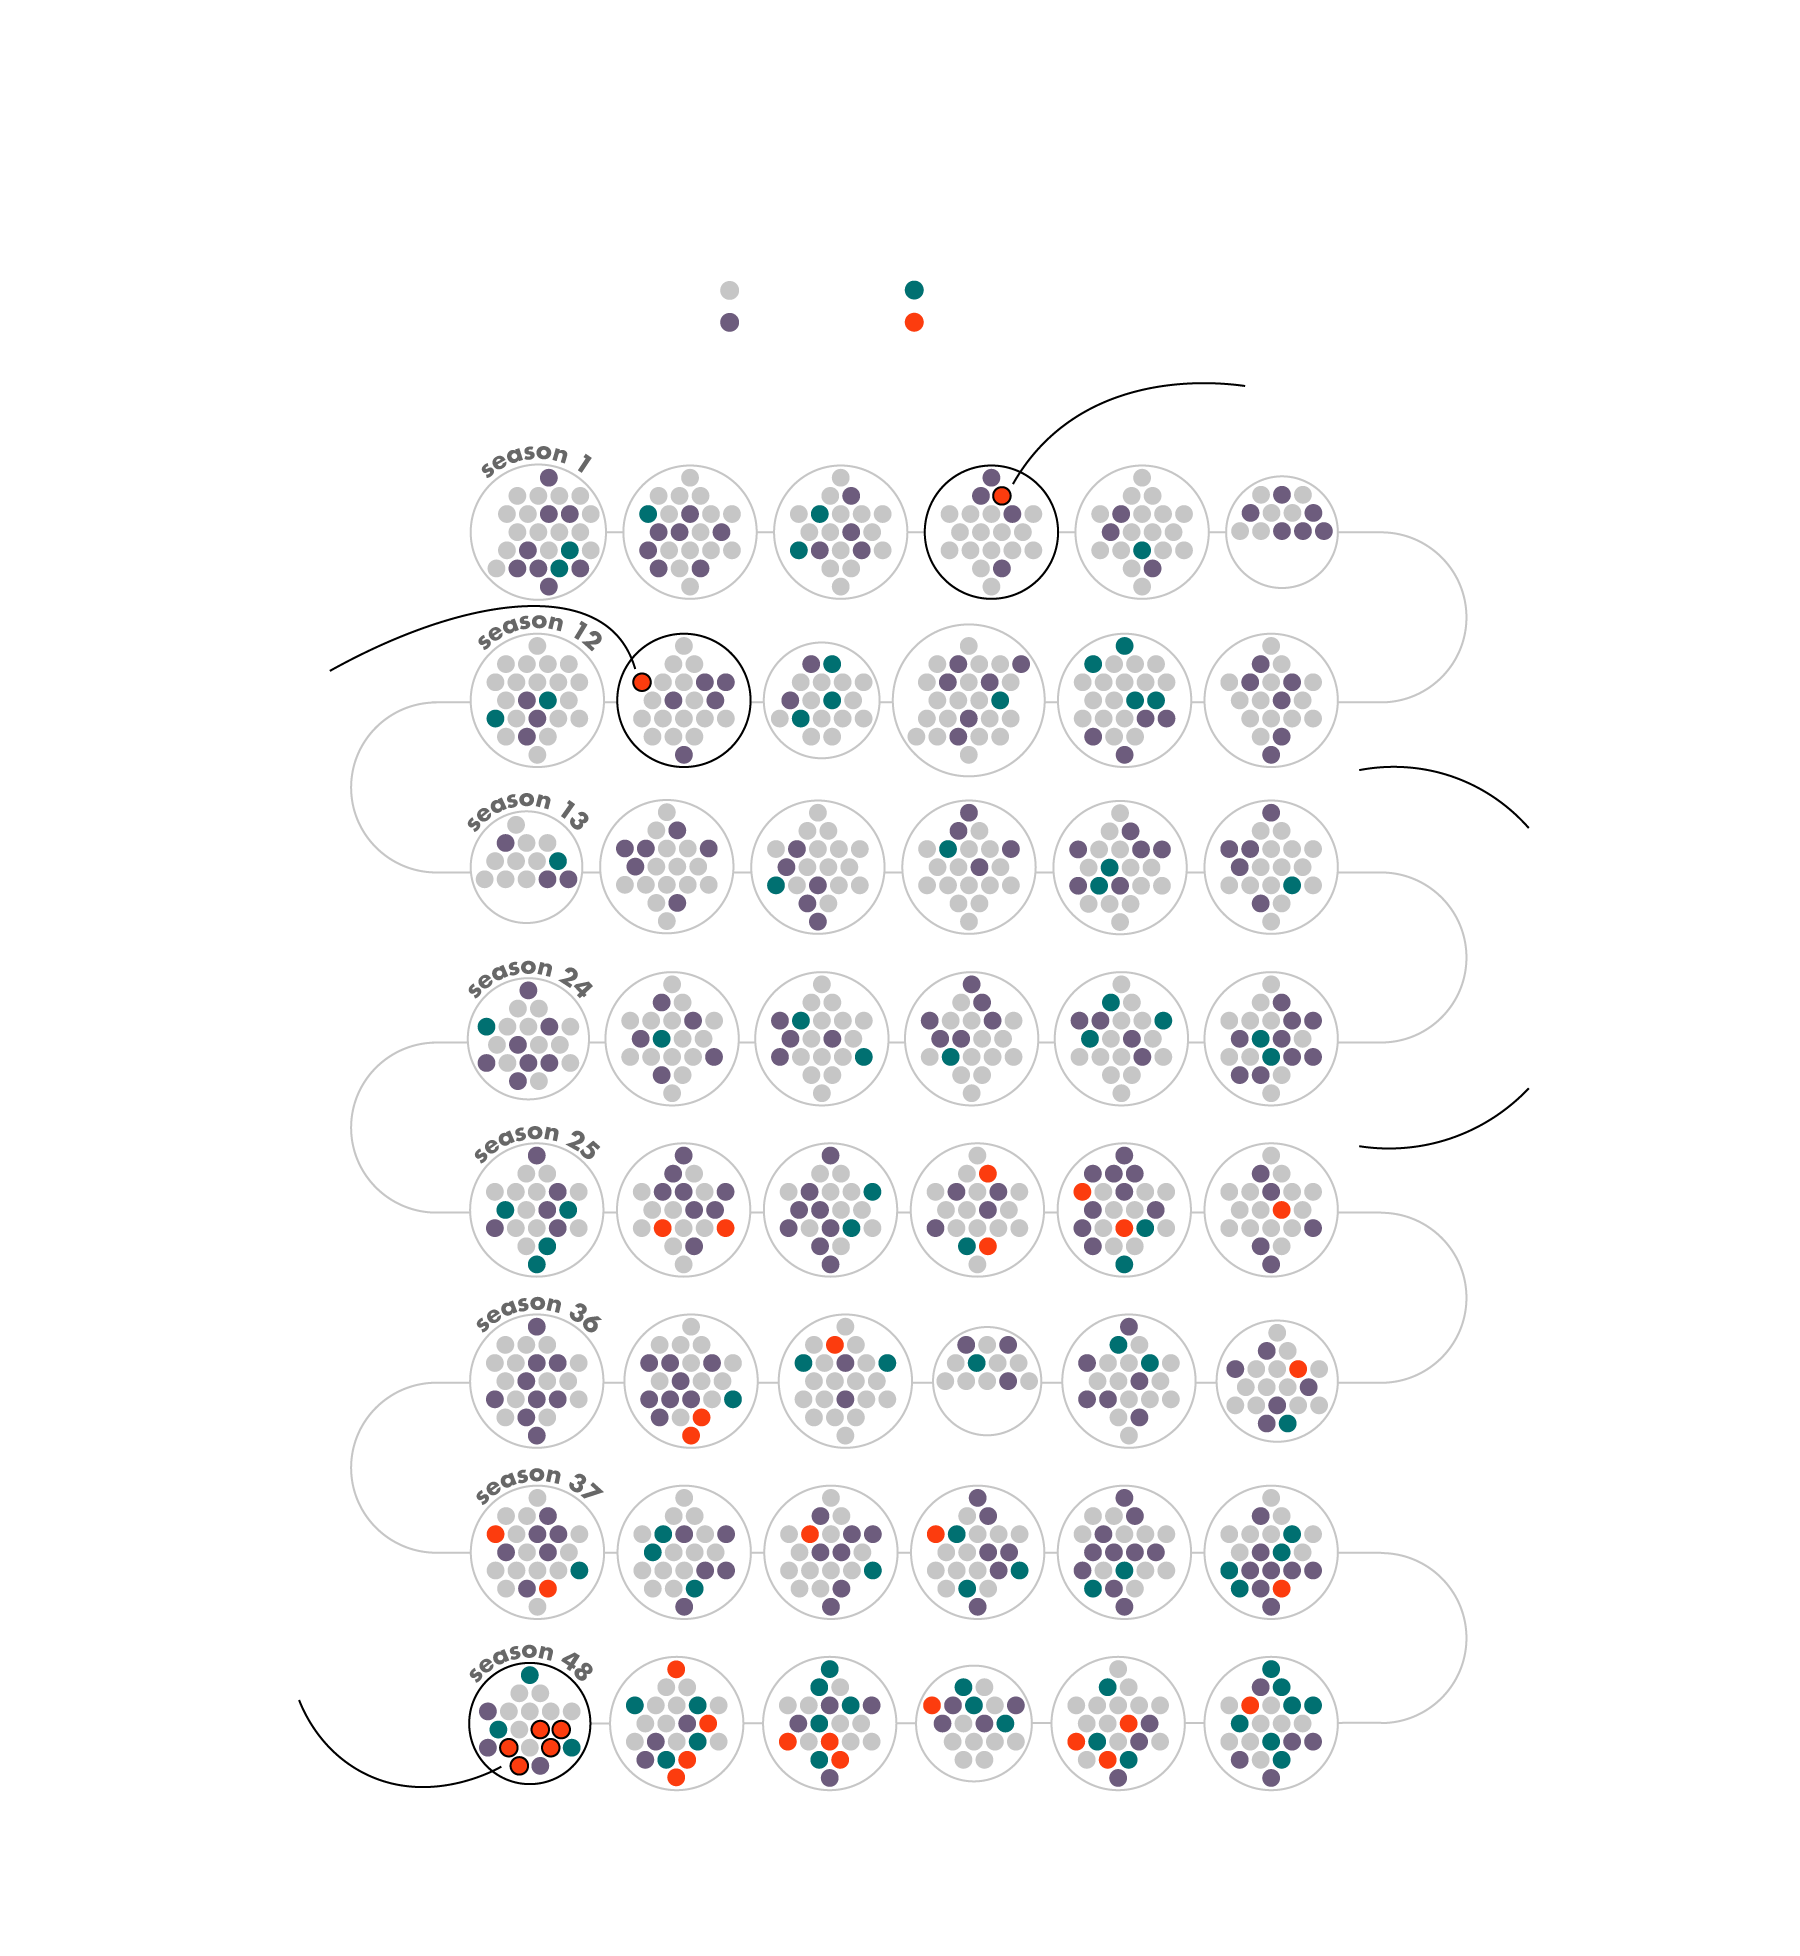
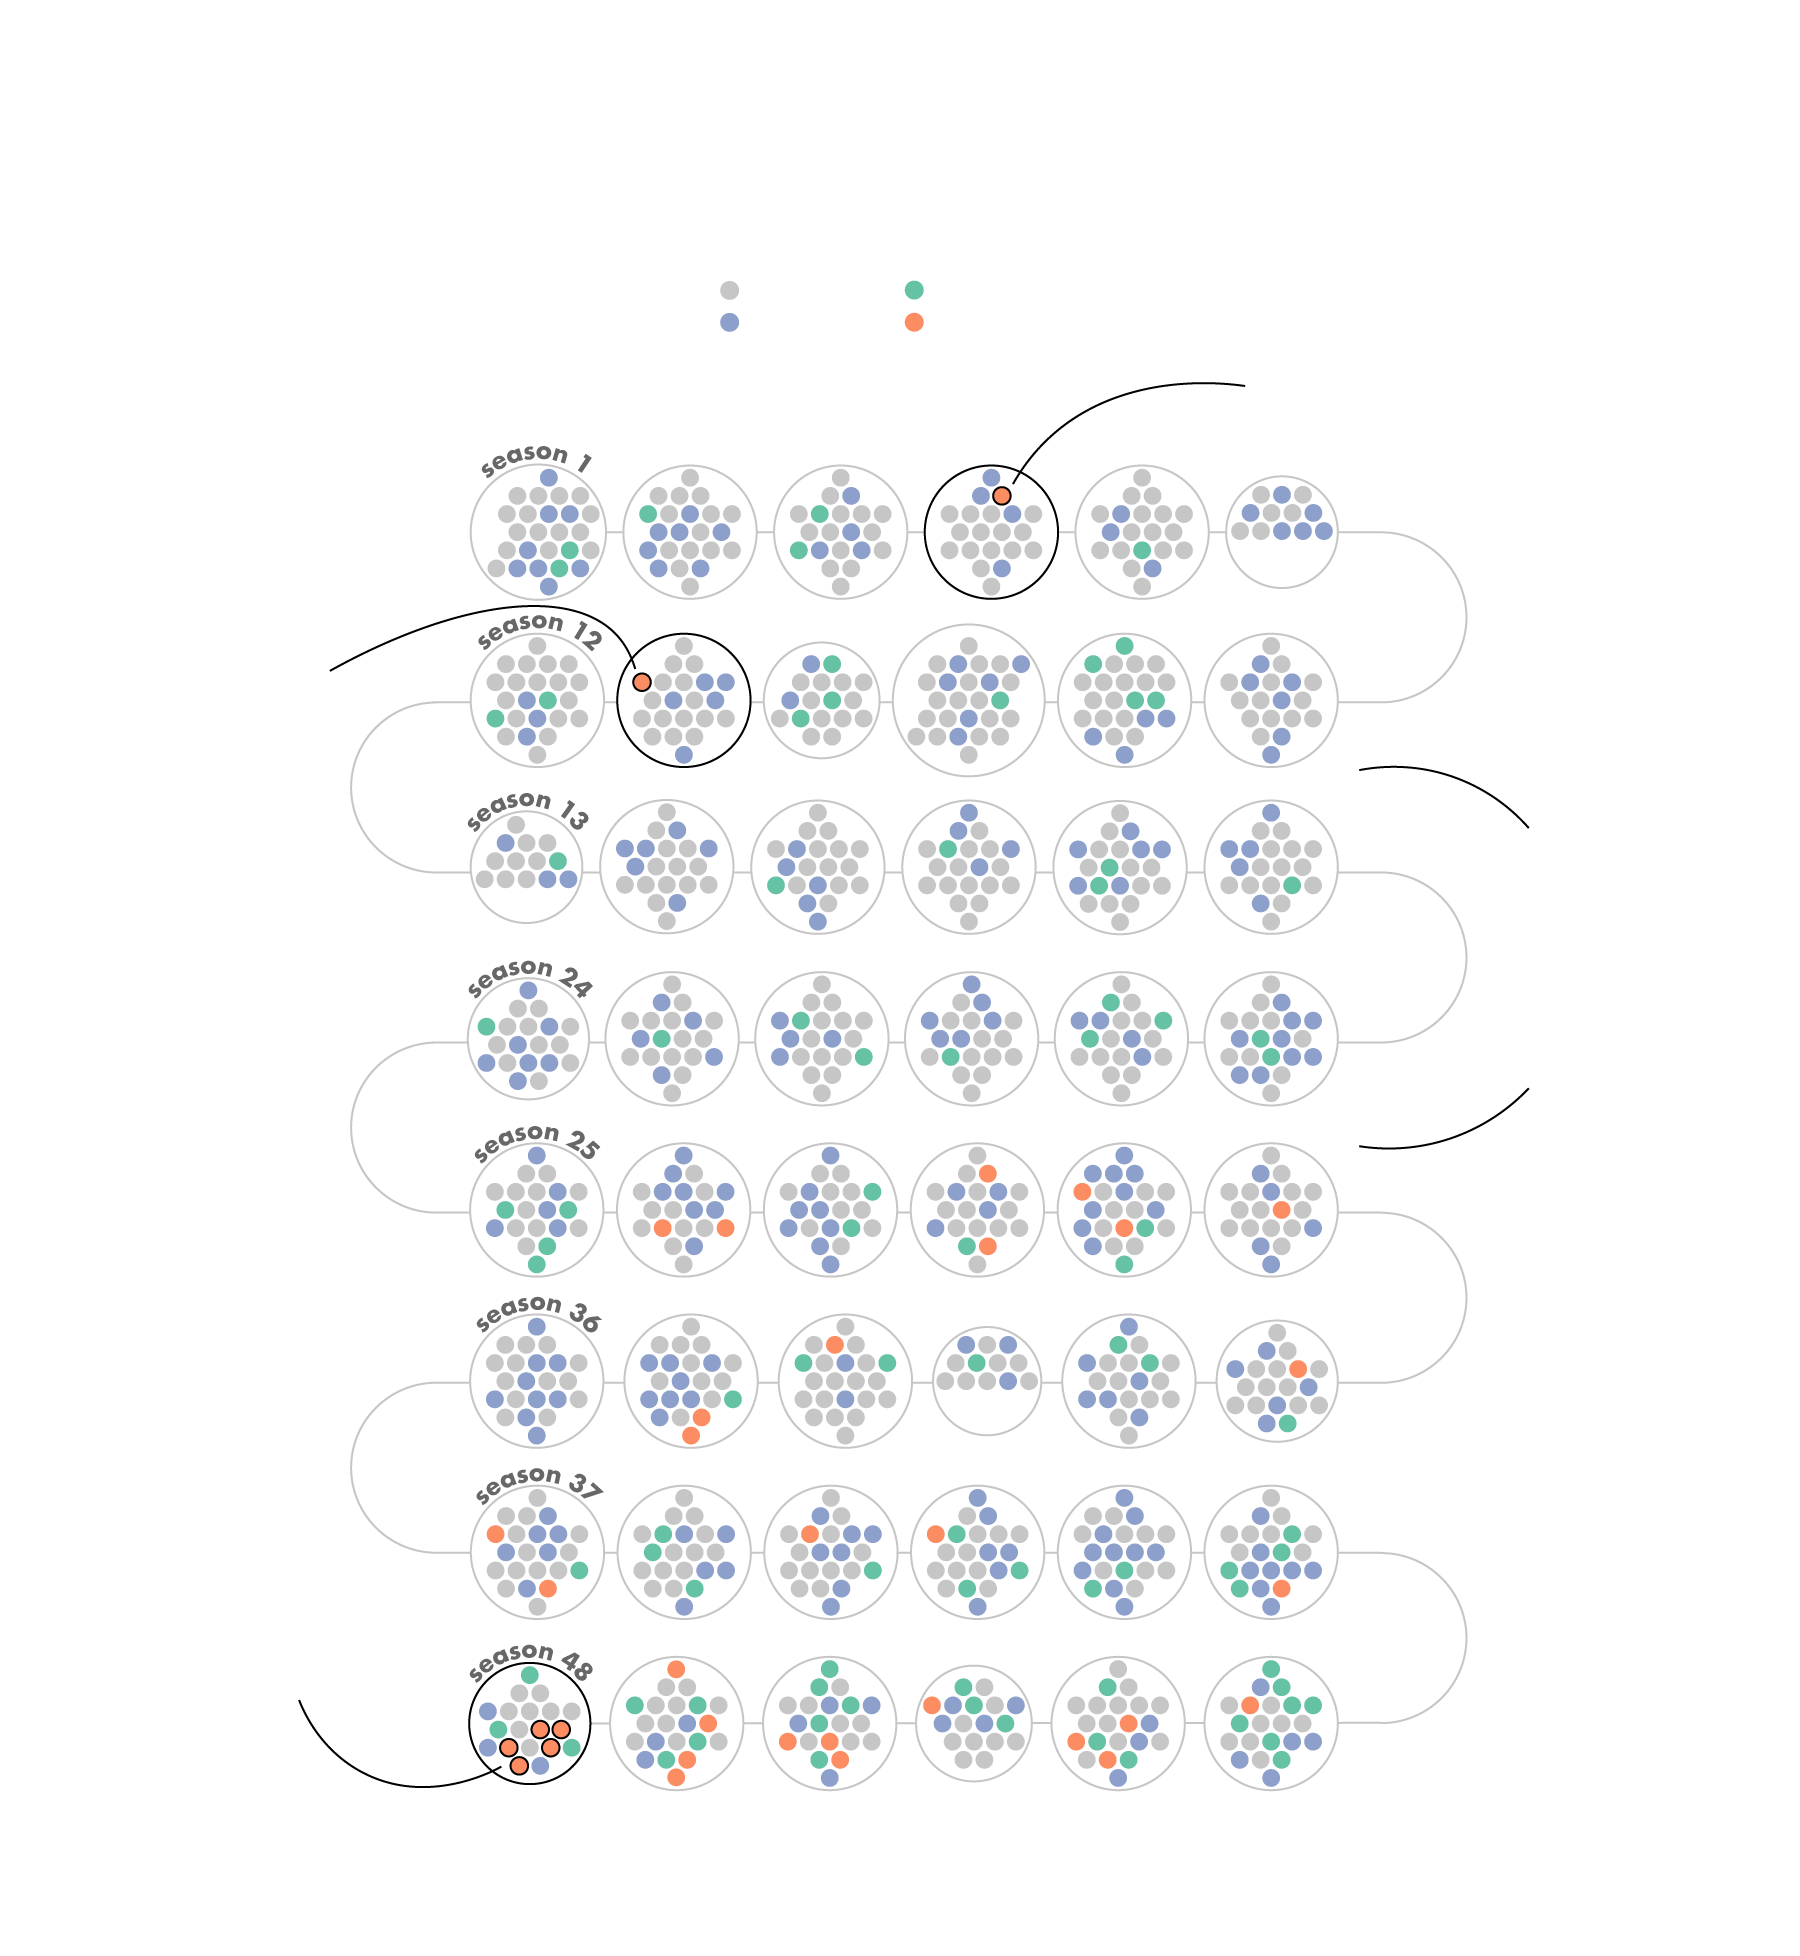
updating SNL colors to be colorblind friendly

diff --git a/snl-viz.html b/snl-viz.html
@@ -1,6 +1,3 @@
-
-<!-- Generated by ai2html v0.115.5 - 2023-05-31 18:27 -->
-<!-- ai file: snl-hosts.ai -->
 <meta name="viewport" content="width=device-width,initial-scale=1.0"> 
 
 <style media="screen,print">
@@ -30,7 +27,6 @@
 		overflow:hidden;
 	}
 	#g-snl-hosts-mobile_420px p {
-		font-family: 'Futura';
 		font-weight:500;
 		line-height:11px;
 		height:auto;
@@ -45,6 +41,7 @@
 		mix-blend-mode:normal;
 		font-style:normal;
 		position:static;
+		font-family: 'Futura';
 	}
 	#g-snl-hosts-mobile_420px .g-pstyle0 {
 		font-weight:700;
@@ -52,6 +49,8 @@
 		font-size:32px;
 		text-align:center;
 		color:rgb(0,0,0);
+		font-family: 'Futura';
+
 	}
 	#g-snl-hosts-mobile_420px .g-pstyle1 {
 		line-height:12px;
@@ -59,8 +58,7 @@
 		color:rgb(0,0,0);
 	}
 	#g-snl-hosts-mobile_420px .g-pstyle2 {
-		line-height:10px;
-		height:10px;
+		height:11px;
 		font-size:9px;
 		color:rgb(0,0,0);
 	}
@@ -84,7 +82,6 @@
 		overflow:hidden;
 	}
 	#g-snl-hosts-desktop_720px p {
-		font-family: 'Futura';
 		font-weight:500;
 		line-height:15px;
 		height:auto;
@@ -99,6 +96,8 @@
 		mix-blend-mode:normal;
 		font-style:normal;
 		position:static;
+		font-family: 'Futura';
+
 	}
 	#g-snl-hosts-desktop_720px .g-pstyle0 {
 		font-weight:700;
@@ -136,6 +135,7 @@
 		line-height:14px;
 		font-size:12px;
 	}
+
 
 		/* MEDIA QUERIES */
 		#g-snl-hosts-mobile_420px{
@@ -184,7 +184,7 @@
 		<div id="g-ai0-8" class="g-420 g-aiAbs g-aiPointText" style="top:16.2456%;margin-top:-6.8px;left:9.4069%;width:46px;">
 			<p class="g-pstyle3">1975</p>
 		</div>
-		<div id="g-ai0-9" class="g-420 g-aiAbs g-aiPointText" style="top:19.5952%;margin-top:-6.8px;left:83.378%;width:46px;">
+		<div id="g-ai0-9" class="g-420 g-aiAbs g-aiPointText" style="top:19.5953%;margin-top:-6.8px;left:83.378%;width:46px;">
 			<p class="g-pstyle3">1979</p>
 		</div>
 		<div id="g-ai0-10" class="g-420 g-aiAbs g-aiPointText" style="top:25.9678%;margin-top:-22.8px;left:81.1031%;width:97px;">
@@ -196,37 +196,37 @@
 		<div id="g-ai0-11" class="g-420 g-aiAbs g-aiPointText" style="top:25.9678%;margin-top:-6.8px;left:9.4069%;width:46px;">
 			<p class="g-pstyle3">1983</p>
 		</div>
-		<div id="g-ai0-12" class="g-420 g-aiAbs g-aiPointText" style="top:32.5037%;margin-top:-6.8px;left:83.3954%;width:46px;">
+		<div id="g-ai0-12" class="g-420 g-aiAbs g-aiPointText" style="top:32.5038%;margin-top:-6.8px;left:83.3954%;width:46px;">
 			<p class="g-pstyle3">1987</p>
 		</div>
 		<div id="g-ai0-13" class="g-420 g-aiAbs g-aiPointText" style="top:38.958%;margin-top:-6.8px;left:9.4069%;width:45px;">
 			<p class="g-pstyle3">1991</p>
 		</div>
-		<div id="g-ai0-14" class="g-420 g-aiAbs g-aiPointText" style="top:45.4122%;margin-top:-6.8px;left:83.3094%;width:46px;">
+		<div id="g-ai0-14" class="g-420 g-aiAbs g-aiPointText" style="top:45.4123%;margin-top:-6.8px;left:83.3094%;width:46px;">
 			<p class="g-pstyle3">1995</p>
 		</div>
 		<div id="g-ai0-15" class="g-420 g-aiAbs g-aiPointText" style="top:51.7848%;margin-top:-6.8px;left:9.4069%;width:46px;">
 			<p class="g-pstyle3">1999</p>
 		</div>
-		<div id="g-ai0-16" class="g-420 g-aiAbs g-aiPointText" style="top:58.3207%;margin-top:-6.8px;left:83.1164%;width:47px;">
+		<div id="g-ai0-16" class="g-420 g-aiAbs g-aiPointText" style="top:58.3208%;margin-top:-6.8px;left:83.1164%;width:47px;">
 			<p class="g-pstyle3">2003</p>
 		</div>
 		<div id="g-ai0-17" class="g-420 g-aiAbs g-aiPointText" style="top:64.6116%;margin-top:-6.8px;left:9.4069%;width:46px;">
 			<p class="g-pstyle3">2007</p>
 		</div>
-		<div id="g-ai0-18" class="g-420 g-aiAbs g-aiPointText" style="top:71.0658%;margin-top:-6.8px;left:83.6477%;width:44px;">
+		<div id="g-ai0-18" class="g-420 g-aiAbs g-aiPointText" style="top:71.0659%;margin-top:-6.8px;left:83.6477%;width:44px;">
 			<p class="g-pstyle3">2011</p>
 		</div>
 		<div id="g-ai0-19" class="g-420 g-aiAbs g-aiPointText" style="top:77.5201%;margin-top:-6.8px;left:9.4069%;width:45px;">
 			<p class="g-pstyle3">2015</p>
 		</div>
-		<div id="g-ai0-20" class="g-420 g-aiAbs g-aiPointText" style="top:83.8926%;margin-top:-6.8px;left:83.4931%;width:45px;">
+		<div id="g-ai0-20" class="g-420 g-aiAbs g-aiPointText" style="top:83.8927%;margin-top:-6.8px;left:83.4931%;width:45px;">
 			<p class="g-pstyle3">2019</p>
 		</div>
 		<div id="g-ai0-21" class="g-420 g-aiAbs g-aiPointText" style="top:87.0789%;margin-top:-6.8px;left:9.4069%;width:47px;">
 			<p class="g-pstyle3">2023</p>
 		</div>
-		<div id="g-ai0-22" class="g-420 g-aiAbs g-aiPointText" style="top:93.288%;margin-top:-22.8px;left:0.9145%;width:158px;">
+		<div id="g-ai0-22" class="g-420 g-aiAbs g-aiPointText" style="top:93.2881%;margin-top:-22.8px;left:0.9145%;width:158px;">
 			<p class="g-pstyle4">In its current season, SNL has </p>
 			<p class="g-pstyle4">had five hosts that were </p>
 			<p class="g-pstyle4">women of color, marking the </p>
@@ -273,7 +273,7 @@
 		<div id="g-ai1-9" class="g-900 g-aiAbs g-aiPointText" style="top:31.5966%;margin-top:-8px;left:75.3483%;width:50px;">
 			<p class="g-pstyle2">1981</p>
 		</div>
-		<div id="g-ai1-10" class="g-900 g-aiAbs g-aiPointText" style="top:36.4196%;margin-top:-46.2px;left:2.5554%;width:168px;">
+		<div id="g-ai1-10" class="g-900 g-aiAbs g-aiPointText" style="top:36.4197%;margin-top:-46.2px;left:2.5554%;width:168px;">
 			<p class="g-pstyle4">It took seven seasons </p>
 			<p class="g-pstyle4">for another woman </p>
 			<p class="g-pstyle4">of color to host SNL. </p>
@@ -328,4 +328,4 @@
 
 </div>
 
-<!-- End ai2html - 2023-06-01 18:25 -->
+<!-- End ai2html - 2023-06-27 18:35 -->
